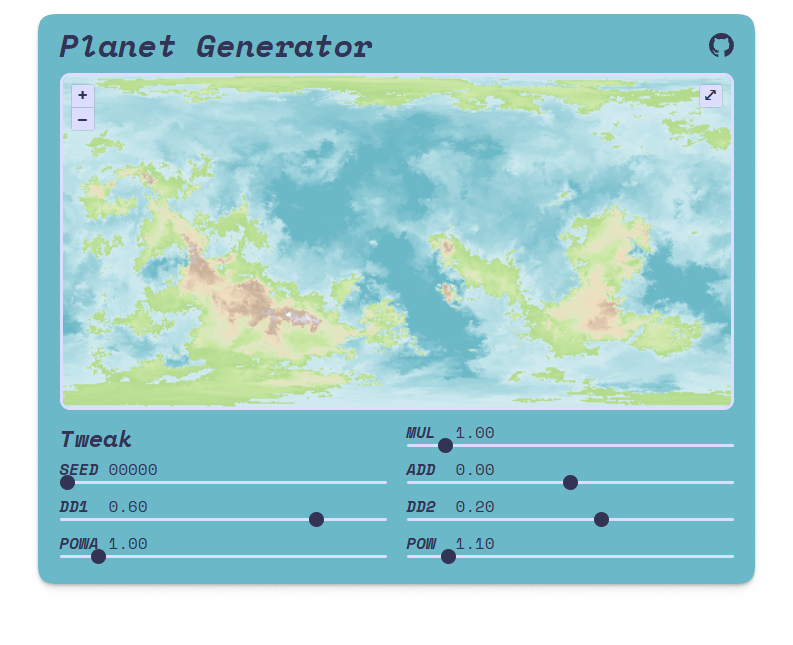
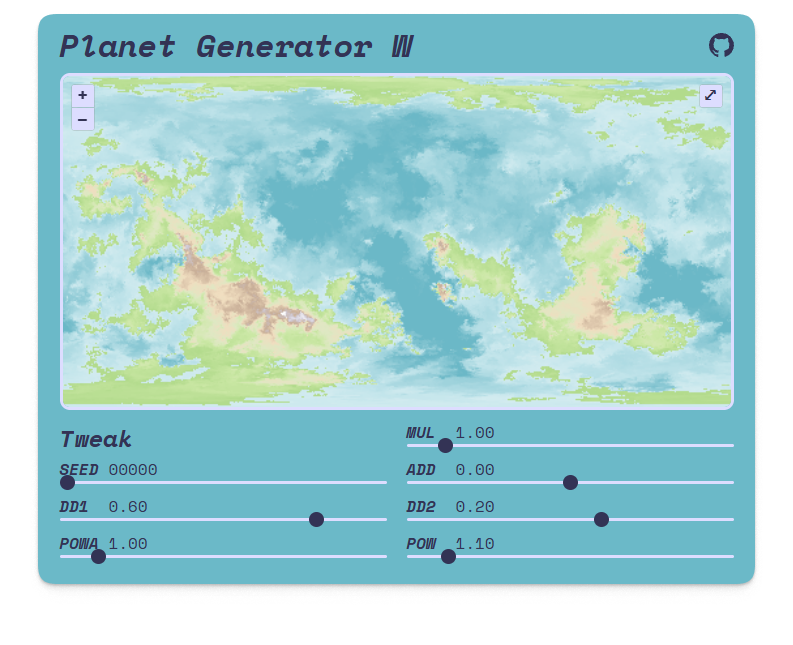
w stands for whatever

diff --git a/index.html b/index.html
@@ -97,8 +97,8 @@
         width: 100%;
         align-items: baseline;
     ">
-        <h1><i>Planet Generator</i></h1>
-        <a href="https://github.com/gnlow/planet-generator" target="_blank" rel="noopener noreferrer">
+        <h1><i>Planet Generator W</i></h1>
+        <a href="https://github.com/gnlow/planet-generator-w" target="_blank" rel="noopener noreferrer">
             <img src="static/github.svg" height="24px">
         </a>
     </h>

diff --git a/README.md b/README.md
@@ -1,4 +1,4 @@
-# planet-generator
+# planet-generator-w
 
 Based on [_Planet Generator_](http://hjemmesider.diku.dk/~torbenm/Planet/) by Torben Mogensen
 
